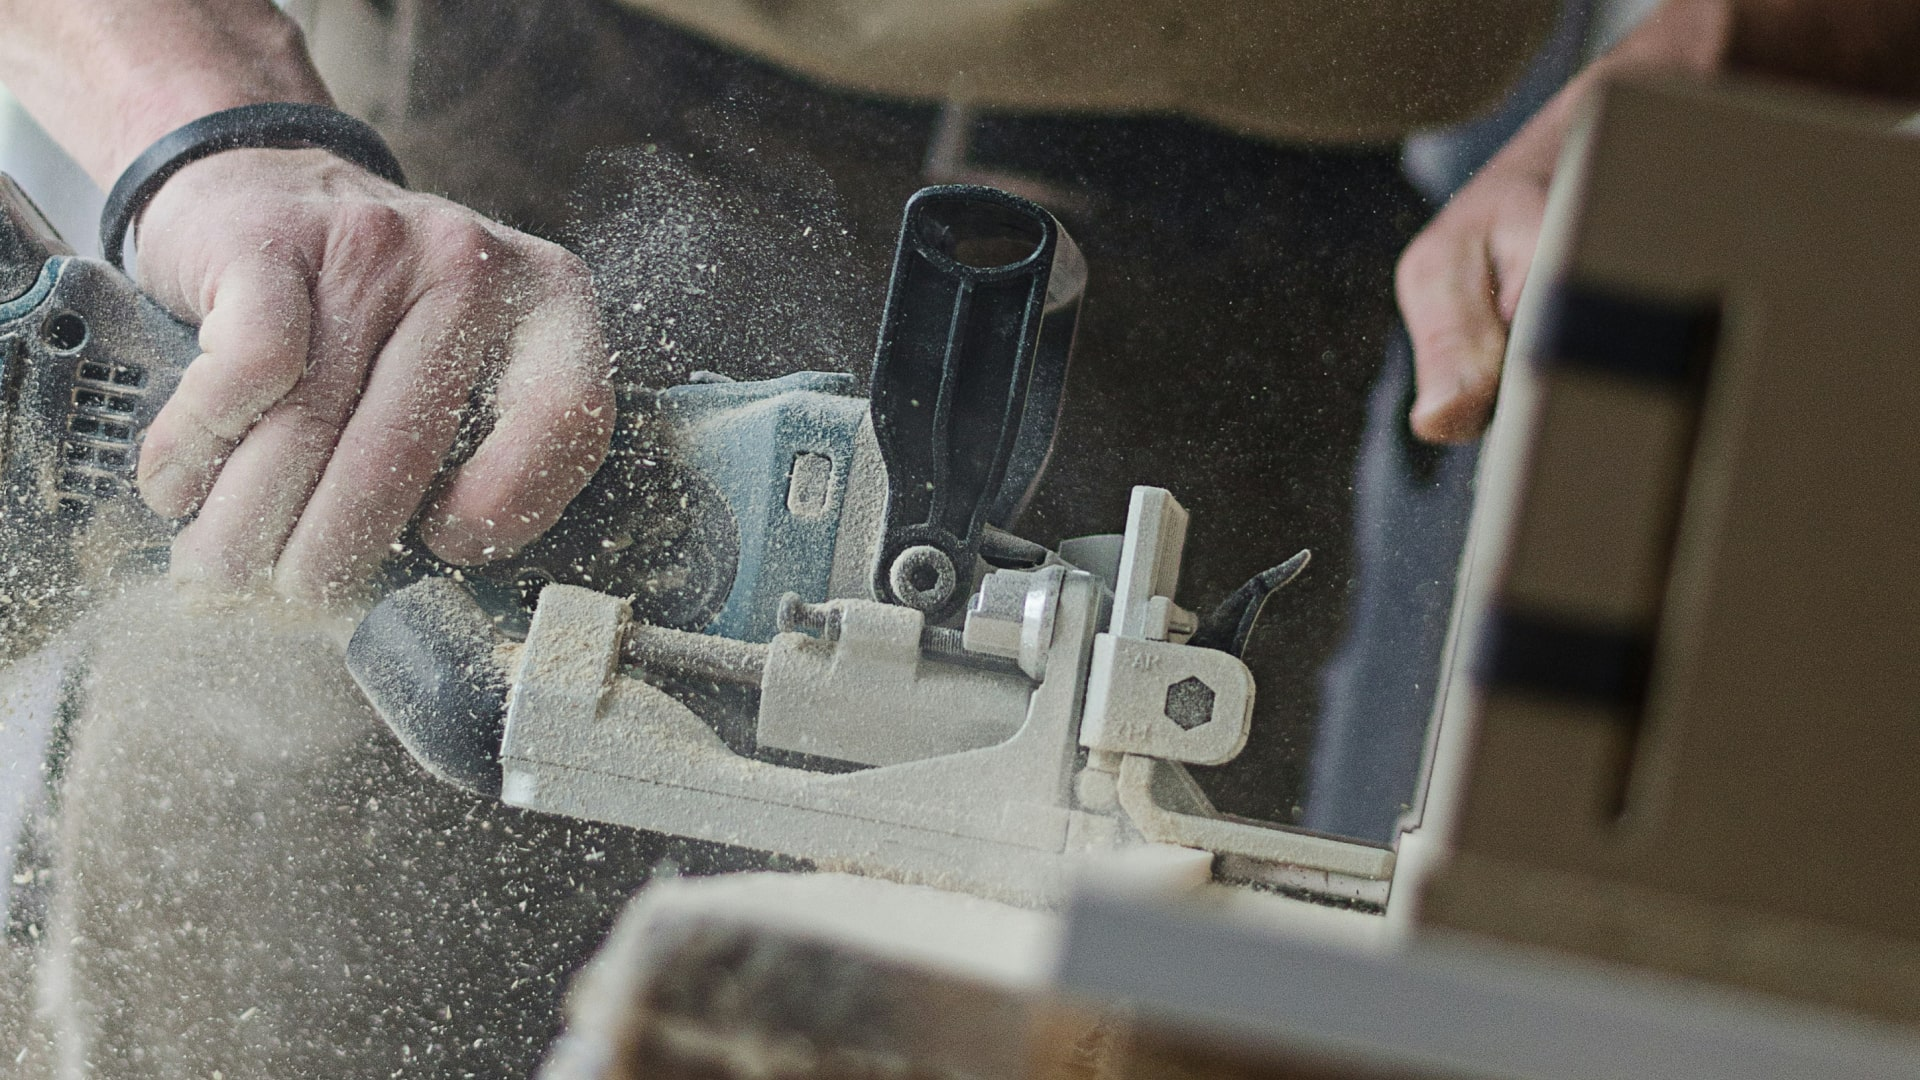
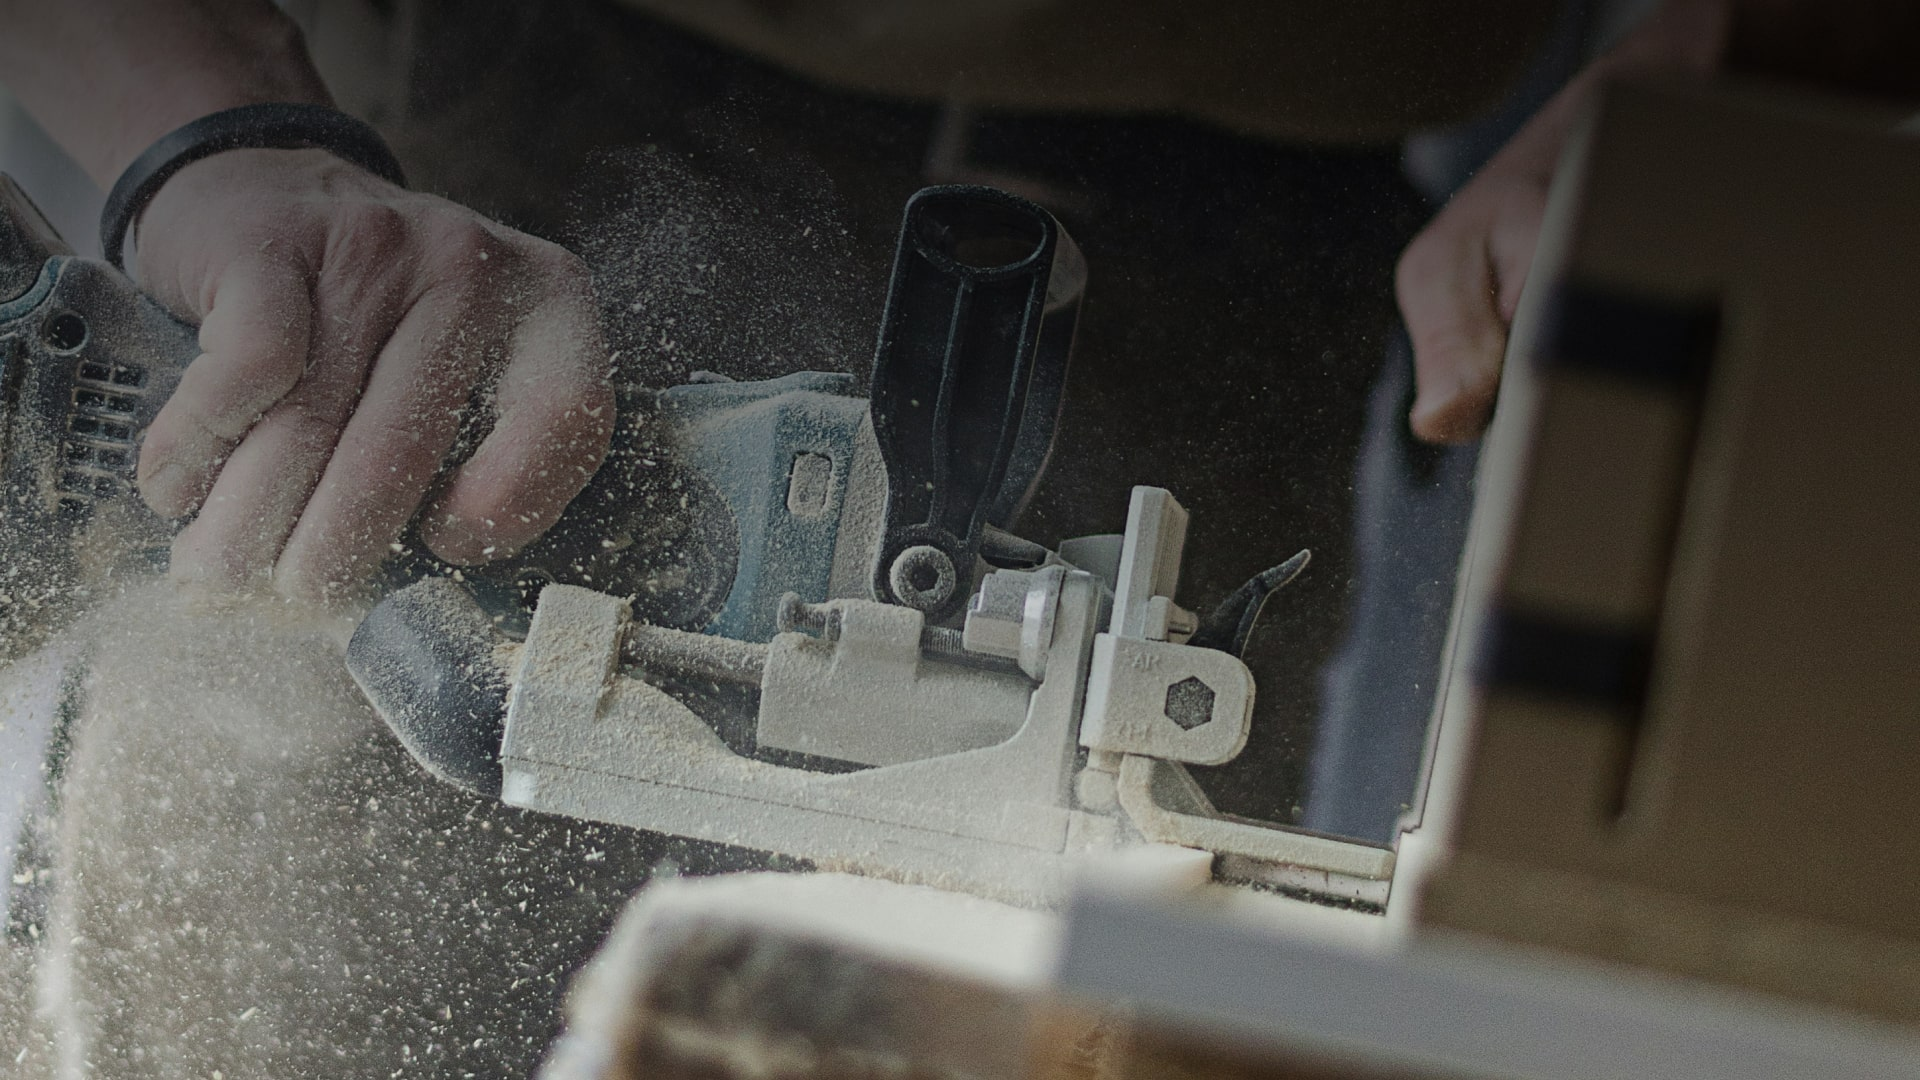
change style

diff --git a/css/style.css b/css/style.css
@@ -109,12 +109,10 @@ legend {
     max-width: 100%;
     width: 100%;
     height: 100vh;
-    background: radial-gradient(50% 50% at 50% 50%, rgba(0, 0, 0, 0) 0%, rgba(0, 0, 0, 0.6) 81.5%);;
 }
 
 .section-lift-specification {
     position: relative;
-    background: radial-gradient(50% 50% at 50% 50%, rgba(0, 0, 0, 0) 0%, rgba(0, 0, 0, 0.6) 81.5%);;
 }
 
 .section-lift-specification img,
